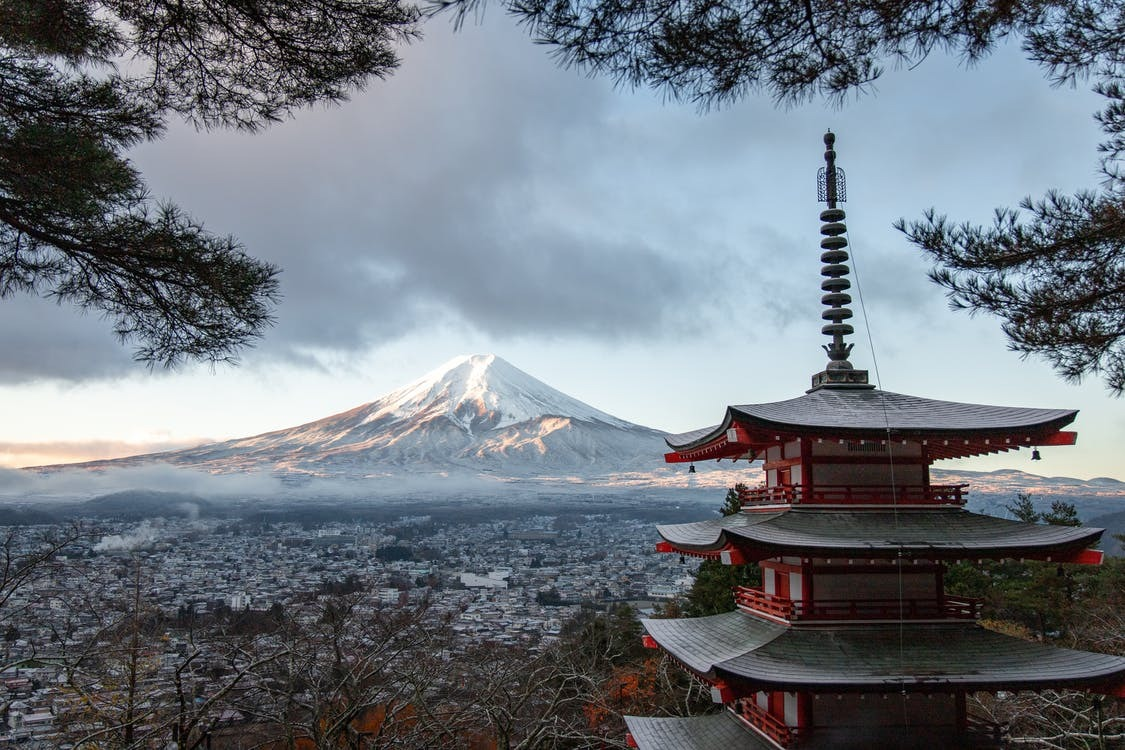
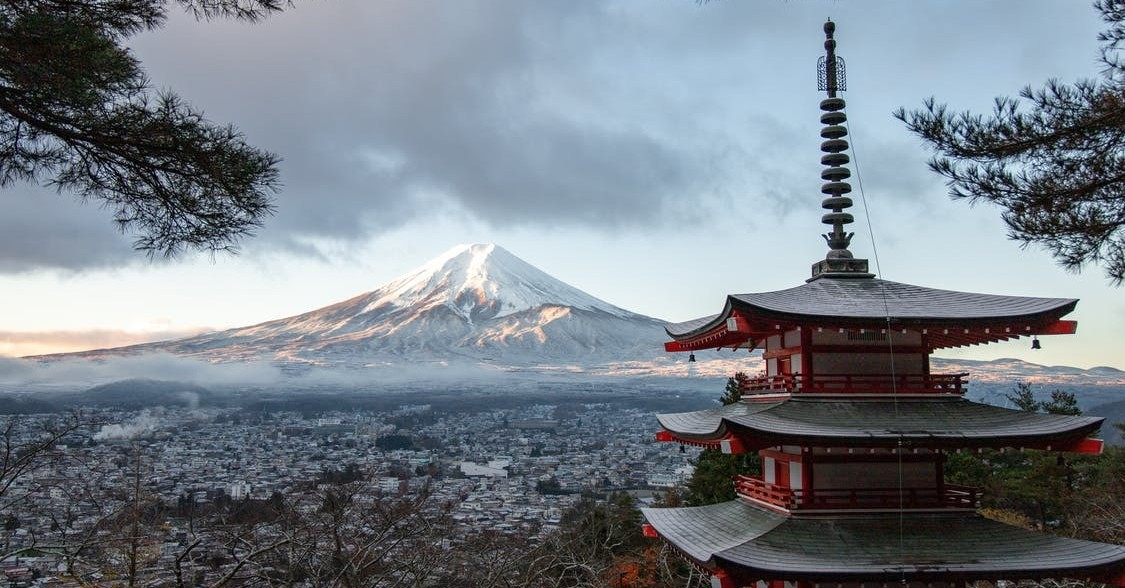
add parallax + index modified

diff --git a/home.css b/home.css
@@ -1,4 +1,4 @@
-@import url("https://fonts.googleapis.com/css2?family=Poppins:ital,wght@0,300;0,400;0,500;0,600;0,700;0,800;0,900;1,200;1,300;1,400;1,500;1,600;1,700;1,800;1,900&display=swap");
+@import url('https://fonts.googleapis.com/css2?family=Poppins:ital,wght@0,300;0,400;0,500;0,600;0,700;0,800;0,900;1,200;1,300;1,400;1,500;1,600;1,700;1,800;1,900&display=swap');
 
 *,
 *::after,
@@ -65,7 +65,7 @@ input {
 .navbar {
   background-color: #7d191b;
   box-shadow: 0px 5px 10px 0px rgb(14, 14, 14);
-  z-index: 1;
+  z-index: 6;
 }
 
 .navbar-container {
@@ -99,9 +99,10 @@ i {
 }
 
 #icon {
-  width: 25px;
+  width: 30px;
   cursor: pointer;
-  color: var(--primary-color);
+  position: relative;
+  top: 8px;
 }
 
 nav ul {
@@ -111,16 +112,26 @@ nav ul {
 
 /* ............//// Showcase ////......... */
 
+.containerfuji {
+  position: relative;
+  overflow: hidden;
+  max-height: 100vh;
+}
+
+.thumbnail {
+  width: 100%;
+  border-radius: 10px;
+}
+
 .showcase-area {
-  height: 50vh;
-  background: linear-gradient(
-      rgba(133, 133, 133, 0.144),
-      rgba(255, 255, 255, 0.336)
-    ),
-    url(assets/photo-accueil.jpeg);
-  background-size: cover;
-  background-position: center;
-  background-repeat: no-repeat;
+  position: absolute;
+  z-index: 5;
+  top: 0%;
+  left: 0%;
+  height: 100%;
+  width: 100%;
+  justify-content: center;
+  align-items: center;
 }
 
 .showcase-container {
@@ -130,12 +141,6 @@ nav ul {
   justify-content: center;
   height: 100%;
   font-size: 1.6rem;
-}
-
-.imgcenter {
-  display: flex;
-  justify-content: center;
-  align-items: center;
 }
 
 .main-title {
@@ -257,7 +262,7 @@ nav ul {
   border-radius: 20px;
   transform: translate(-50%, -50%);
   opacity: 0;
-  z-index: 2;
+  z-index: 4;
   text-align: center;
   transition: all 0.3s ease-in-out 0.1s;
 }
@@ -272,7 +277,7 @@ nav ul {
 }
 
 .img-container::after {
-  content: "";
+  content: '';
   display: block;
   position: absolute;
   border-radius: 20px;
@@ -309,14 +314,15 @@ nav ul {
   }
 
   #icon {
-    display: none;
+    padding-left: 10px;
+    width: 40px;
   }
 
   .navbar {
     opacity: 1;
   }
 
-  .navbar-container input[type="checkbox"],
+  .navbar-container input[type='checkbox'],
   .navbar-container .hamburger-lines {
     display: block;
   }
@@ -327,13 +333,13 @@ nav ul {
     height: 64px;
   }
 
-  .navbar-container input[type="checkbox"] {
+  .navbar-container input[type='checkbox'] {
     position: absolute;
     display: block;
     height: 40px;
     width: 40px;
     top: 16px;
-    z-index: 5;
+    z-index: 3;
     opacity: 0;
     cursor: pointer;
   }
@@ -374,20 +380,24 @@ nav ul {
 
   .navbar .menu-items {
     padding-top: 100px;
+    top: 60px;
+    z-index: 7;
+    position: absolute;
     background: #7d191b;
-    height: 57vh;
-    max-width: 400px;
-    transform: translate(-150%);
+    height: 100vh;
     display: flex;
     flex-direction: column;
     margin-left: -80px;
     padding-left: 50px;
+    padding-right: 80px;
+    transform: translate(-150%);
     transition: transform 0.5s ease-in-out;
     box-shadow: 5px 0px 10px 0px #7d191b;
   }
 
   .navbar .menu-items li {
     margin-bottom: 1.5rem;
+    margin-right: px;
     font-size: 1.3rem;
     font-weight: 500;
   }
@@ -396,19 +406,19 @@ nav ul {
     text-align: left;
   }
 
-  .navbar-container input[type="checkbox"]:checked ~ .menu-items {
+  .navbar-container input[type='checkbox']:checked ~ .menu-items {
     transform: translateX(0);
   }
 
-  .navbar-container input[type="checkbox"]:checked ~ .hamburger-lines .line1 {
+  .navbar-container input[type='checkbox']:checked ~ .hamburger-lines .line1 {
     transform: rotate(35deg);
   }
 
-  .navbar-container input[type="checkbox"]:checked ~ .hamburger-lines .line2 {
+  .navbar-container input[type='checkbox']:checked ~ .hamburger-lines .line2 {
     transform: scaleY(0);
   }
 
-  .navbar-container input[type="checkbox"]:checked ~ .hamburger-lines .line3 {
+  .navbar-container input[type='checkbox']:checked ~ .hamburger-lines .line3 {
     transform: rotate(-35deg);
   }
 
@@ -451,7 +461,7 @@ nav ul {
 
   .activity-item {
     flex-direction: column;
-    z-index: -99999;
+    z-index: -1;
     text-align: center;
   }
 

diff --git a/index.html b/index.html
@@ -6,6 +6,7 @@
     <meta http-equiv="X-UA-Compatible" content="IE=edge" />
     <meta name="viewport" content="width=device-width, initial-scale=1.0" />
     <title>Tokyo Express</title>
+    <link rel="icon" type="image/png" href="assets/logojapan.png" />
     <script src="https://kit.fontawesome.com/4b82133d48.js" crossorigin="anonymous"></script>
     <link rel="stylesheet" href="stylebis.css" />
     <link rel="stylesheet" href="home.css" />
@@ -17,7 +18,7 @@
     <nav class="navbar">
         <div class="navbar-container container">
             <img class="logo" src="assets/logojapanwhite.png" alt="Logo japan" />
-            <input type="checkbox" name="" id="">
+            <input type="checkbox">
             <div class="hamburger-lines">
                 <span class="line line1"></span>
                 <span class="line line2"></span>
@@ -28,20 +29,23 @@
                 <li><a href="preparation.html"><i class="fa-solid fa-plane"></i>Préparation</a></li>
                 <li><a href="listspage.html"><i class="fa-solid fa-map-location"></i>Adresses</a></li>
                 <li><a href="aboutus.html"><i class="fa-solid fa-circle-info"></i>À propos</a></li>
+                <li><img src="assets/lunes.png" id="icon"></li>
             </ul>
-            <img src="assets/lunes.png" id="icon">
         </div>
     </nav>
 
     <main>
 
-        <section class="showcase-area" id="showcase">
-            <div class="showcase-container">
-                <h1 class="main-title h1size">TOKYO EXPRESS</h1>
-                <p>A trip to the land of the rising sun</p>
-                <a href="preparation.html" class="btn btn-primary">Préparation</a>
-            </div>
-        </section>
+        <div class="containerfuji"><img class="thumbnail" src="assets/photo-accueil.jpeg" alt="image mont fuji">
+            <section class="showcase-area">
+                <div class="showcase-container">
+                    <h1 class="main-title h1size">TOKYO EXPRESS</h1>
+                    <a href="preparation.html" class="btn btn-primary">Préparation</a>
+                </div>
+            </section>
+        </div>
+
+
 
 
         <section id="tokyo">
@@ -142,6 +146,7 @@
         </div>
     </footer>
 
+    <script src="https://cdn.jsdelivr.net/npm/simple-parallax-js@5.5.1/dist/simpleParallax.min.js"></script>
     <script src="homepage.js"></script>
 </body>
 

diff --git a/stylebis.css b/stylebis.css
@@ -1,11 +1,10 @@
 h1 {
   font-family: 'chinchan';
   font-weight: bold;
-  font-size: 24px;
+  box-shadow: black 50px;
   text-align: center;
   color: #7d191b;
   padding: 20px 20px;
-  margin: 20px 40px;
   font-weight: 900;
 }
 
@@ -154,66 +153,5 @@ footer {
     position: fixed;
     bottom: 10%;
     right: 1%;
-  }
-
-  .navlogo {
-    display: none;
-  }
-
-  .navdesktop {
-    display: initial;
-    margin-bottom: 54px;
-  }
-
-  #upNav {
-    display: flex;
-  }
-
-  .navdesktop ul {
-    display: flex;
-    list-style: none;
-    justify-content: space-around;
-    align-items: center;
-    padding: 0 15px;
-    background-color: #7d191b;
-    height: 40px;
-  }
-
-  #upNav h1 {
-    margin: 0;
-    text-transform: uppercase;
-    text-align: left;
-    background-image: url('./assets/Photo\ navbar.jpg');
-    flex-grow: 1;
-    background-repeat: no-repeat;
-    background-size: cover;
-    background-position: center;
-    padding: auto 10px;
-  }
-
-  #homeNav {
-    height: 72px;
-    padding-left: 12px;
-    padding-right: 12px;
-  }
-
-  #prepNav,
-  #placesNav,
-  #aboutNav {
-    color: #ffffff;
-    flex: 1;
-    text-align: center;
-    height: 72px;
-    padding: 20px;
-    border-radius: 5px;
-    font-weight: bold;
-    font-size: 1.2em;
-    cursor: pointer;
-  }
-
-  h1 {
-    margin-top: 40px;
-    margin-bottom: 24px;
-    font-size: 2.6em;
   }
 }

diff --git a/homepage.js b/homepage.js
@@ -7,3 +7,9 @@ icon.onclick = function () {
     icon.src = 'assets/lunes.png';
   }
 };
+
+const image = document.querySelector('.thumbnail');
+new simpleParallax(image, {
+  delay: 0.8,
+  transition: 'cubic-bezier(0,0,0,1)',
+});
